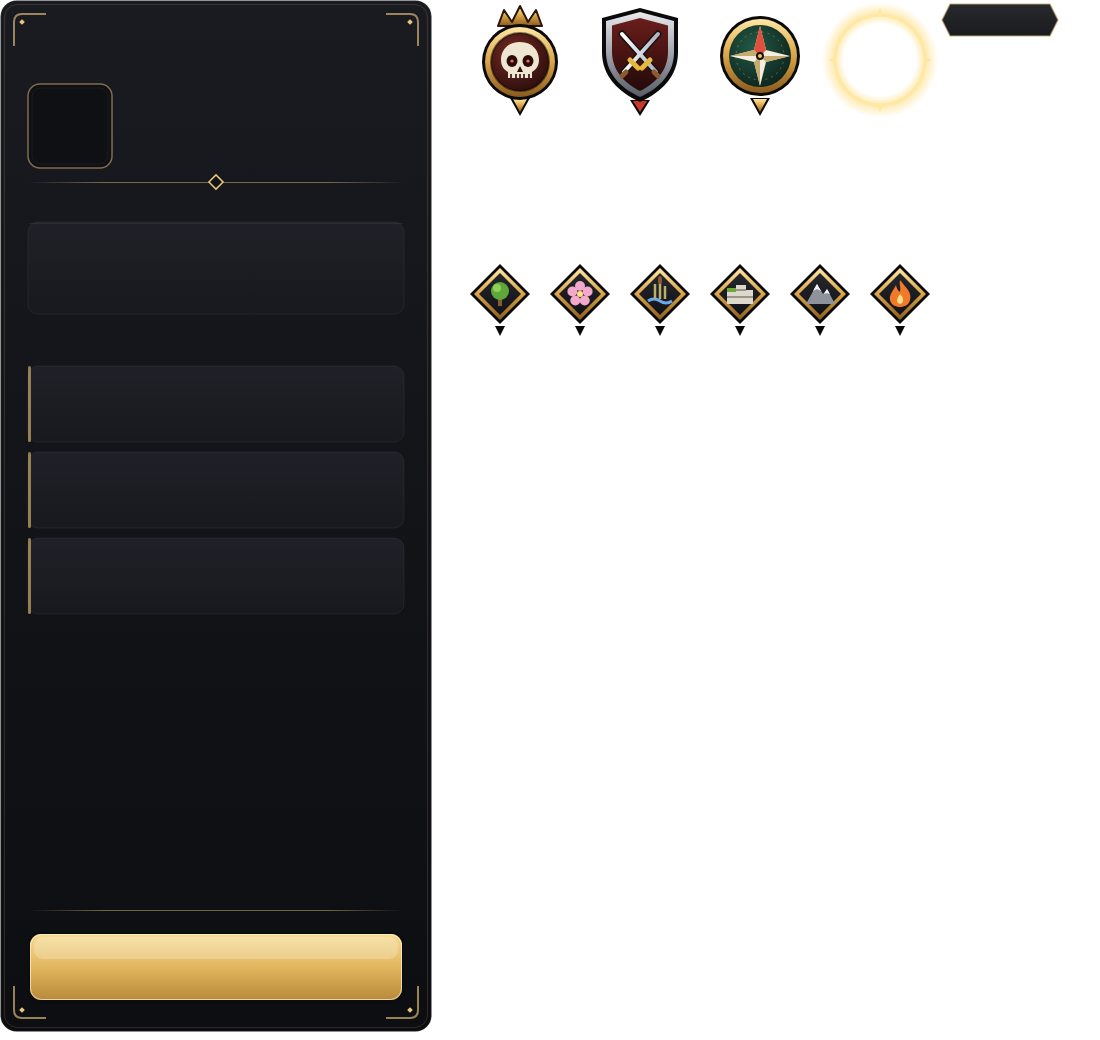
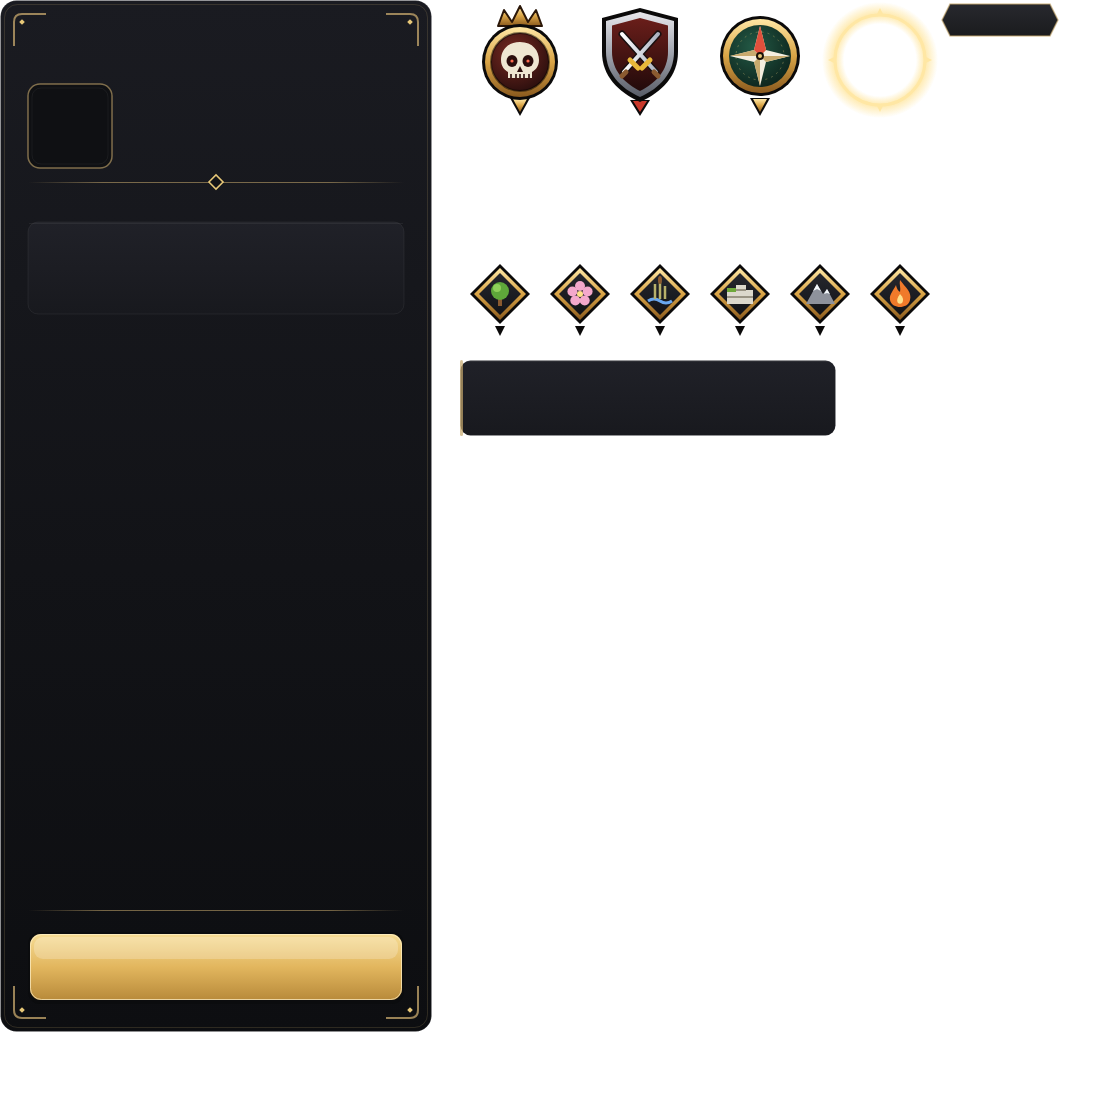
fix(atlas): pills above the panel plate, one card per activity row

diff --git a/server-minestom/src/main/kotlin/dev/projects/server/coreloop/AtlasMapFlow.kt b/server-minestom/src/main/kotlin/dev/projects/server/coreloop/AtlasMapFlow.kt
@@ -269,14 +269,14 @@ internal class AtlasMapFlow(
         // Header: kind and tier pills, enemy level, close.
         val type = if (z.hub) "拠点" else if (z.pvp) "荒野 · PvP" else "安全"
         val typeColor = if (z.pvp) "#3a1a18" else if (z.hub) "#18301c" else "#172338"
-        round("p-type", ix, y + 28, 120.0, 32.0, 14.0, typeColor, 1.0, 14)
-        text("p-type-t", ix, y + 33, 120.0, type, 15.0, if (z.pvp) "#ffb0a0" else if (z.hub) "#9af0a0" else "#a9c8ff", 13, "center", "v3m")
-        round("p-tier", ix + 128, y + 28, 56.0, 32.0, 14.0, "#e8c878", 1.0, 14)
-        text("p-tier-t", ix + 128, y + 33, 56.0, "T${z.tier}", 14.0, "#2a1a08", 13, "center")
+        round("p-type", ix, y + 28, 120.0, 32.0, 14.0, typeColor, 1.0, 16)
+        text("p-type-t", ix, y + 33, 120.0, type, 15.0, if (z.pvp) "#ffb0a0" else if (z.hub) "#9af0a0" else "#a9c8ff", 17, "center", "v3m")
+        round("p-tier", ix + 128, y + 28, 56.0, 32.0, 14.0, "#e8c878", 1.0, 16)
+        text("p-tier-t", ix + 128, y + 33, 56.0, "T${z.tier}", 14.0, "#2a1a08", 17, "center")
         val lv = listOf("1〜10", "11〜20", "21〜30", "31〜40")[z.tier - 1]
         text("p-lv", ix + 196, y + 33, 160.0, "敵Lv $lv", 14.0, "#f8a090", 13)
-        round("p-x", x + w - pad - 40, y + 24, 40.0, 40.0, 10.0, "#202126", 1.0, 14, "deselect", "#ff2a2416")
-        text("p-x-t", x + w - pad - 40, y + 31, 40.0, "×", 20.0, "#a29e97", 13, "center", "v3b")
+        round("p-x", x + w - pad - 40, y + 24, 40.0, 40.0, 10.0, "#202126", 1.0, 16, "deselect", "#ff2a2416")
+        text("p-x-t", x + w - pad - 40, y + 31, 40.0, "×", 20.0, "#a29e97", 17, "center", "v3b")
 
         // Name.
         item("p-port-i", itemFor(z), ix + 10, y + 94, 64.0, 13)
@@ -303,6 +303,8 @@ internal class AtlasMapFlow(
         }
         rows.forEachIndexed { i, (name, sub, whenText) ->
             val ry = y + 366 + i * 86
+            atlas.art["card_0"]?.let { nodes += UiNode("p-r$i-c0", box(ix, ry, 256.0, 76.0), "", emptyMap(), null, null, true, 11, it) }
+            atlas.art["card_1"]?.let { nodes += UiNode("p-r$i-c1", box(ix + 256, ry, 120.0, 76.0), "", emptyMap(), null, null, true, 11, it) }
             text("p-r$i-n", ix + 18, ry + 14, iw - 130, name, 18.0, "#f4eedf", 13, "left", "v3m")
             text("p-r$i-s", ix + 18, ry + 44, iw - 36, sub, 14.0, "#8a867e", 13, "left", "v3r")
             if (whenText.isNotEmpty()) text("p-r$i-w", ix + iw - 118, ry + 16, 100.0, whenText, 14.0, "#ff9a8a", 13, "right")
@@ -313,8 +315,8 @@ internal class AtlasMapFlow(
         val goText = when { z.hub -> "港へ戻る"; z.pvp -> "準備中"; z.id == bossZones.firstOrNull() -> "参戦する"; else -> "遠征に出る" }
         val enabled = !z.pvp
         if (enabled) rect("p-go", ix, by, iw, 72.0, "#00000000", 12, "go", "#30ffffff")
-        else rect("p-go-off", ix, by, iw, 72.0, "#e0141519", 14)
-        text("p-go-t", ix, by + 22, iw, goText, 24.0, if (enabled) "#1a1208" else "#5e5a54", 13, "center", "v3b")
+        else rect("p-go-off", ix, by, iw, 72.0, "#e0141519", 16)
+        text("p-go-t", ix, by + 22, iw, goText, 24.0, if (enabled) "#1a1208" else "#5e5a54", 17, "center", "v3b")
     }
 
     companion object {

diff --git a/assets/ui/atlas/atlas-ui.html b/assets/ui/atlas/atlas-ui.html
@@ -53,15 +53,6 @@
   <!-- territory card -->
   <rect x="28" y="222" width="376" height="92" rx="10" fill="url(#card)" stroke="#ffffff" stroke-opacity=".06"/>
   <rect x="29" y="223" width="374" height="1" fill="#ffffff" fill-opacity=".06"/>
-  <!-- what-is-here cards -->
-  <g>
-    <rect x="28" y="366" width="376" height="76" rx="10" fill="url(#card)" stroke="#ffffff" stroke-opacity=".06"/>
-    <rect x="28" y="452" width="376" height="76" rx="10" fill="url(#card)" stroke="#ffffff" stroke-opacity=".06"/>
-    <rect x="28" y="538" width="376" height="76" rx="10" fill="url(#card)" stroke="#ffffff" stroke-opacity=".06"/>
-    <rect x="28" y="366" width="3" height="76" rx="1.5" fill="#c8aa6e" fill-opacity=".7"/>
-    <rect x="28" y="452" width="3" height="76" rx="1.5" fill="#c8aa6e" fill-opacity=".7"/>
-    <rect x="28" y="538" width="3" height="76" rx="1.5" fill="#c8aa6e" fill-opacity=".7"/>
-  </g>
   <!-- divider above the button -->
   <rect x="28" y="910" width="376" height="1" fill="url(#goldline)"/>
   <!-- depart button -->
@@ -182,6 +173,16 @@
   <!-- infernal: flame -->
   <g transform="translate(440 34)"><path d="M0 -14 C6 -6 12 -2 10 6 C9 11 4 13 0 13 C-4 13 -9 11 -10 6 C-11 0 -6 -4 -4 -9 C-3 -4 -1 -3 0 -2 C1 -6 -1 -10 0 -14 Z" fill="#f07a2a"/>
     <path d="M0 0 C3 3 4 6 2 9 C1 10 -1 10 -2 9 C-4 6 -2 3 0 0 Z" fill="#ffe08a"/></g>
+</svg>
+</div>
+
+<!-- ===== Activity card (376 x 76), drawn once per row in game ===== -->
+<div class="part" style="left:460px;top:360px">
+<svg width="376" height="76" viewBox="0 0 376 76">
+  <defs><linearGradient id="card2" x1="0" y1="0" x2="0" y2="1"><stop offset="0" stop-color="#202128"/><stop offset="1" stop-color="#18191e"/></linearGradient></defs>
+  <rect x="0.5" y="0.5" width="375" height="75" rx="10" fill="url(#card2)" stroke="#ffffff" stroke-opacity=".06"/>
+  <rect x="1" y="1" width="374" height="1" fill="#ffffff" fill-opacity=".06"/>
+  <rect x="0" y="0" width="3" height="76" rx="1.5" fill="#c8aa6e" fill-opacity=".7"/>
 </svg>
 </div>
 </body>

diff --git a/scripts/build_atlas_assets.py b/scripts/build_atlas_assets.py
@@ -96,6 +96,8 @@ def main() -> None:
     for i, name in enumerate(("badge_boss", "badge_pvp", "badge_hub", "badge_ring")):
         add(name, parts.crop((460 + i * 120, 0, 580 + i * 120, 120)))
     add("plate", parts.crop((940, 0, 1060, 40)))
+    card = parts.crop((460, 360, 836, 436))
+    add("card_0", card.crop((0, 0, 256, 76))); add("card_1", card.crop((256, 0, 376, 76)))
     for i, name in enumerate(("verdant", "sakura_grove", "saltmarsh", "clifflands", "highlands", "infernal")):
         add(f"pin_{name}", parts.crop((460 + i * 80, 260, 540 + i * 80, 340)))
     add("fx_banner", banner())
@@ -119,7 +121,7 @@ def render() -> None:
     from build_forge_v3_assets import chrome_exe
     out = SOURCE / "parts.png"
     subprocess.run([chrome_exe(), "--headless=new", "--disable-gpu", "--hide-scrollbars", "--force-device-scale-factor=1",
-                    "--default-background-color=00000000", "--window-size=1100,1040", f"--screenshot={out}",
+                    "--default-background-color=00000000", "--window-size=1100,1100", f"--screenshot={out}",
                     (SOURCE / "atlas-ui.html").as_uri()], check=True, capture_output=True, timeout=120)
     print(f"ATLAS_PARTS_RENDERED {out}")
 
